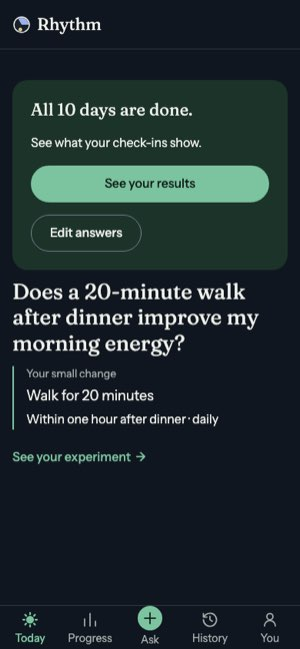
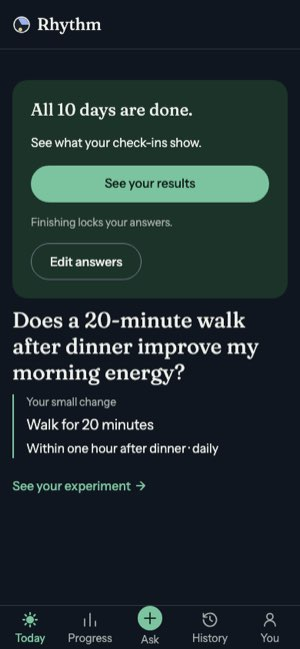
feat(mobile): say that finishing locks your answers

Changed region(s): [[0.03, 0.3082, 0.96, 0.7704]]

diff --git a/apps/mobile/src/finish.tsx b/apps/mobile/src/finish.tsx
@@ -46,11 +46,12 @@ function useFinish({ experiment, token, offline, onExpired, onCompleted }: Finis
 }
 
 /** All days are done, so there's nothing to confirm: one tap finishes and opens the result. */
-export function FinishNow({ disabled = false, ...props }: FinishProps & { disabled?: boolean }) {
+export function FinishNow({ disabled = false, ...props }: FinishProps & { disabled?: boolean }) { const styles = useStyles();
   const { busy, error, finish } = useFinish(props);
   return <>
     {error && <Alert>{error}</Alert>}
     <Action wide label={busy ? 'Getting your results…' : 'See your results'} disabled={disabled || busy || props.offline} onPress={() => void finish()} />
+    <Copy style={styles.hint}>Finishing locks your answers.</Copy>
   </>;
 }
 
